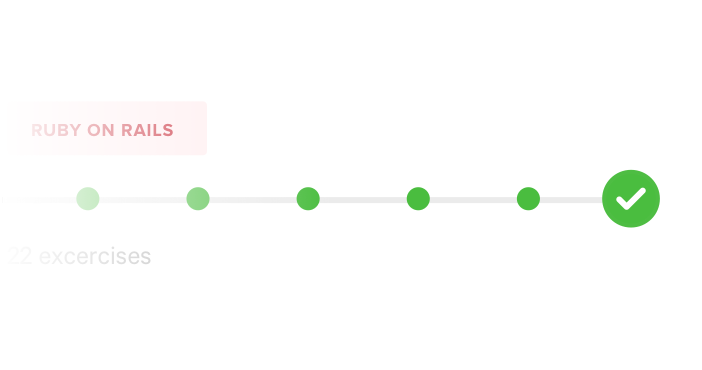
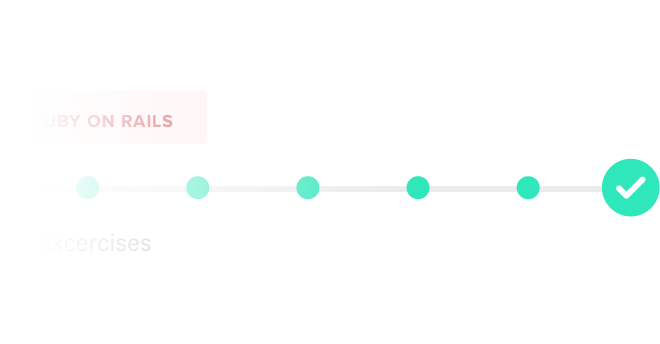
New inclusive landing page

diff --git a/app/assets/stylesheets/marketing/components/_conversation.scss b/app/assets/stylesheets/marketing/components/_conversation.scss
@@ -1,0 +1,45 @@
+.conversation {
+  align-items: flex-end;
+  display: flex;
+  flex-direction: row;
+  flex-wrap: none;
+  margin: 0 auto $medium-spacing;
+  max-width: $max-width-narrower;
+}
+
+.conversation__bubble {
+  background-color: $white;
+  border-radius: 1rem;
+  box-shadow: 0 1rem 2rem rgba($blue, 0.125);
+  margin-left: 1rem;
+  padding: $medium-spacing;
+
+  @include media($medium-screen) {
+    margin-right: 7rem;
+  }
+
+  p {
+    margin-bottom: 0;
+  }
+}
+
+.conversation__bubble--right {
+  background-color: $blue;
+  color: rgba($white, 0.9);
+  margin-right: 1rem;
+
+  @include media($medium-screen) {
+    margin-left: 7rem;
+  }
+}
+
+.conversation__avatar {
+  border-radius: 1rem;
+  box-shadow: 0 1rem 2rem rgba($blue, 0.125);
+  flex-shrink: 0;
+  width: 4rem;
+
+  @include media($medium-screen) {
+    width: 6rem;
+  }
+}

diff --git a/app/assets/stylesheets/marketing/components/_page-content.scss b/app/assets/stylesheets/marketing/components/_page-content.scss
@@ -29,10 +29,6 @@
 .page-content--reading {
   @include padding(null $medium-spacing);
   max-width: $reading-width;
-
-  @media (min-width: $medium-screen) {
-    @include padding(null null);
-  }
 }
 
 .page-content__heading {
@@ -41,7 +37,8 @@
   font-family: $heading-font-family;
   font-size: $medium-font-size;
   font-weight: normal;
-  margin-bottom: $base-spacing;
+  margin: 0 auto $base-spacing;
+  max-width: $reading-width;
   text-align: center;
 }
 

diff --git a/app/assets/stylesheets/marketing/components/_card.scss b/app/assets/stylesheets/marketing/components/_card.scss
@@ -1,8 +1,14 @@
 .card {
   background-color: $white;
+  border: 1px solid rgba($blue, 0.075);
   border-radius: $base-border-radius;
   box-shadow: $base-content-shadow;
   overflow: auto;
+}
+
+.card--narrower {
+  margin: 0 auto;
+  max-width: $max-width-narrower;
 }
 
 .card--one-per-line {
@@ -78,4 +84,9 @@
 .card__copy {
   color: $light-font-color;
   max-width: $reading-width;
+}
+
+.card__copy--centered {
+  margin: 0 auto;
+  text-align: center;
 }

diff --git a/app/assets/stylesheets/marketing/components/_button.scss b/app/assets/stylesheets/marketing/components/_button.scss
@@ -8,7 +8,7 @@
   font-family: $strong-font-family;
   font-size: 1.25rem;
   line-height: 1;
-  padding: ($small-spacing * 1.25) $large-spacing ($small-spacing * 1.5);
+  padding: $base-spacing $large-spacing ($base-spacing * 1.15);
   text-align: center;
   text-decoration: none;
   transition-duration: $base-duration * 2;

diff --git a/app/assets/stylesheets/marketing/base/_variables.scss b/app/assets/stylesheets/marketing/base/_variables.scss
@@ -58,8 +58,8 @@ $strong-font-family: "calibre-regular";
 $title-font-family: "averta-standard-bold";
 
 // Font sizes
-$small-font-size: 0.85rem;
-$base-font-size: 1.05rem;
+$small-font-size: 0.95rem;
+$base-font-size: 1.2rem;
 $medium-font-size: 1.4rem;
 $large-font-size: 2.2rem;
 

diff --git a/app/assets/stylesheets/base/_variables.scss b/app/assets/stylesheets/base/_variables.scss
@@ -164,8 +164,8 @@ $unicode-left-single-quote: "\2018";
 $unicode-right-single-quote: "\2019";
 
 // Screen sizes
-$medium-screen: 600px;
 $small-screen: 420px;
+$medium-screen: 620px;
 $large-screen: 1000px;
 $x-large-screen: 1300px;
 

diff --git a/app/assets/stylesheets/marketing/components/_category-card.scss b/app/assets/stylesheets/marketing/components/_category-card.scss
@@ -44,7 +44,7 @@
 .category-card__title {
   color: $light-font-color;
   display: block;
-  font-size: $base-font-size;
+  font-size: $small-font-size;
 }
 
 .category-card__image {

diff --git a/app/assets/stylesheets/marketing/components/_selling-point.scss b/app/assets/stylesheets/marketing/components/_selling-point.scss
@@ -12,7 +12,9 @@
 }
 
 .selling-point__title {
+  color: $blue;
   display: block;
+  font-size: $medium-font-size;
   margin-bottom: $base-spacing;
 }
 
